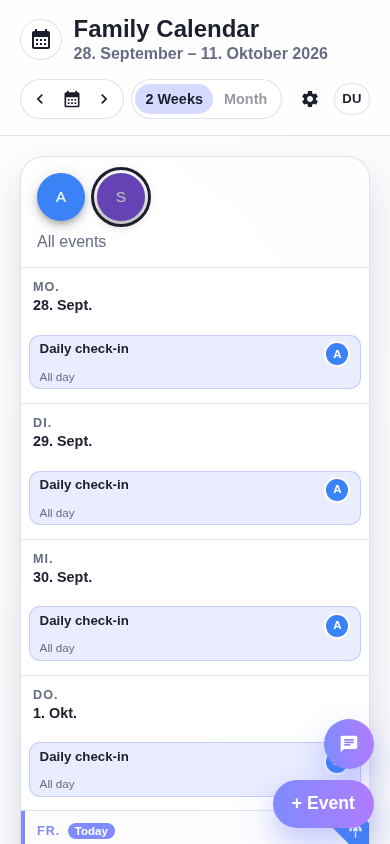
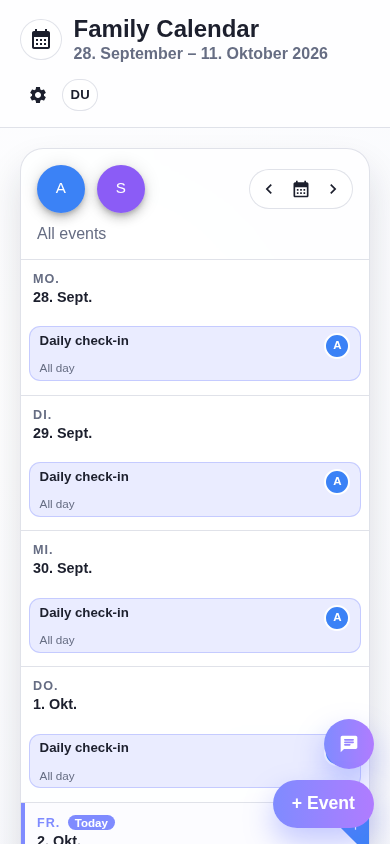
Move mobile date navigation by member filters

diff --git a/frontend/src/pages/DashboardPage.stories.tsx b/frontend/src/pages/DashboardPage.stories.tsx
@@ -65,11 +65,21 @@ export const DayAndEvents: Story = {
     const sam = canvas.getByRole("button", { name: "Filter events for Sam" });
     const period = canvas.getByRole("banner").querySelector("p")?.textContent;
     const events = () => canvas.getAllByRole("button", { name: "Open event Family picnic" });
-    const previousPeriod = canvas.getByTitle("Previous two-week period");
-    const nextPeriod = canvas.getByTitle("Next two-week period");
+    const isMobile = (canvasElement.querySelector(".dashboard-page")?.getBoundingClientRect().width ?? Infinity) <= 760;
+    const previousPeriod = canvasElement.querySelector(
+      `${isMobile ? ".calendar-period-navigation" : ".header-controls .period-navigation"} [title="Previous two-week period"]`,
+    )!;
+    const nextPeriod = canvasElement.querySelector(
+      `${isMobile ? ".calendar-period-navigation" : ".header-controls .period-navigation"} [title="Next two-week period"]`,
+    )!;
 
     await expect(previousPeriod).toBeVisible();
     await expect(nextPeriod).toBeVisible();
+    if (isMobile) {
+      await expect(canvas.queryByRole("group", { name: "View switcher" })).toBeNull();
+      await expect(canvasElement.querySelector(".header-controls .period-navigation")!).not.toBeVisible();
+      await expect(previousPeriod.closest(".calendar-member-filters")).not.toBeNull();
+    }
     await expect(canvas.getByRole("button", { name: "Jump to current period" })).toBeVisible();
     await expect(canvas.getByRole("button", { name: "Open settings" })).toBeVisible();
     await expect(canvas.getByRole("button", { name: "Demo user · Open account menu" })).toBeVisible();
@@ -97,7 +107,9 @@ export const DayAndEvents: Story = {
     await expect(sam).toHaveAttribute("aria-pressed", "false");
     await expect(canvas.getByRole("button", { name: "Open event Music lesson" })).toBeVisible();
     await expect(canvas.getByRole("banner").querySelector("p")?.textContent).toBe(period);
-    await expect(canvas.getByRole("button", { name: "2 Weeks" })).toHaveAttribute("aria-pressed", "true");
+    if (!isMobile) {
+      await expect(canvas.getByRole("button", { name: "2 Weeks" })).toHaveAttribute("aria-pressed", "true");
+    }
   },
 };
 export const DayGroupedEvents: Story = {

diff --git a/frontend/src/App.css b/frontend/src/App.css
@@ -15,6 +15,7 @@ body,
 .dashboard-page {
   min-height: 100vh;
   background: var(--bg-gradient);
+  container: dashboard / inline-size;
 }
 
 .auth-page {
@@ -697,6 +698,10 @@ body,
   display: none;
 }
 
+.calendar-period-navigation {
+  display: none;
+}
+
 @container family-calendar (max-width: 960px) {
   .calendar-member-filters {
     display: flex;
@@ -705,6 +710,18 @@ body,
     gap: 0.75rem;
     padding: 1rem;
     border-bottom: 1px solid var(--border);
+  }
+
+  .calendar-member-filters .calendar-period-navigation {
+    flex-shrink: 0;
+    gap: 0;
+    padding: 0.2rem;
+    margin-left: auto;
+  }
+
+  .calendar-member-filters .calendar-period-navigation .icon-button {
+    width: 2rem;
+    height: 2rem;
   }
 
   .calendar-filter-status {
@@ -1171,6 +1188,10 @@ body,
 }
 
 @media (max-width: 760px) {
+  .calendar-member-filters .calendar-period-navigation {
+    display: inline-flex;
+  }
+
   .auth-page {
     padding: 0.9rem;
   }
@@ -1224,8 +1245,11 @@ body,
   }
 
   .dashboard-page .header-controls {
-    max-width: 100%;
-    justify-self: start;
+    display: none;
+  }
+
+  .dashboard-page .view-switcher {
+    display: none;
   }
 
   .day-cell strong {
@@ -1248,22 +1272,18 @@ body,
 }
 
 @media (max-width: 389px) {
-  .dashboard-page .header-controls {
-    flex-wrap: nowrap;
-    gap: 0.25rem;
+  .calendar-member-filters .calendar-period-navigation {
+    gap: 0;
   }
+}
 
-  .dashboard-page .header-controls .icon-button {
-    width: 1.8rem;
-    height: 1.8rem;
-  }
-
-  .dashboard-page .view-switcher button:disabled {
+@container dashboard (max-width: 760px) {
+  .dashboard-page .header-controls,
+  .dashboard-page .view-switcher {
     display: none;
   }
 
-  .dashboard-page .view-switcher button {
-    padding: 0.3rem 0.4rem;
-    font-size: 0.8rem;
+  .dashboard-page .calendar-member-filters .calendar-period-navigation {
+    display: inline-flex;
   }
 }

diff --git a/frontend/src/pages/DashboardPage.tsx b/frontend/src/pages/DashboardPage.tsx
@@ -536,7 +536,7 @@ export function DashboardPage({
 
         <div className="header-actions">
           <div className="header-controls">
-            <div className="pill-group" role="group" aria-label="Period navigation">
+            <div className="pill-group period-navigation" role="group" aria-label="Period navigation">
               <button
                 type="button"
                 className="icon-button"
@@ -647,6 +647,32 @@ export function DashboardPage({
                 </span>
               </Fab>
             ))}
+            <div className="pill-group period-navigation calendar-period-navigation" role="group" aria-label="Period navigation">
+              <button
+                type="button"
+                className="icon-button"
+                title="Previous two-week period"
+                onClick={() => setPeriodStart((current) => addDays(current, -14))}
+              >
+                <ChevronLeftIcon fontSize="small" />
+              </button>
+              <button
+                type="button"
+                className="icon-button"
+                title="Jump to current period"
+                onClick={() => setPeriodStart(startOfWeekMonday(new Date()))}
+              >
+                <CalendarMonthIcon fontSize="small" />
+              </button>
+              <button
+                type="button"
+                className="icon-button"
+                title="Next two-week period"
+                onClick={() => setPeriodStart((current) => addDays(current, 14))}
+              >
+                <ChevronRightIcon fontSize="small" />
+              </button>
+            </div>
             <span className="calendar-filter-status" role="status">
               {selectedMember ? `Events for ${selectedMember.firstName}` : "All events"}
             </span>

diff --git a/CHANGELOG.md b/CHANGELOG.md
@@ -2,6 +2,7 @@
 
 ## Unreleased
 
+- Moved two-week date navigation alongside mobile calendar member filters and hid the view selector on small screens, while retaining the date range and navigation actions. Updated screenshot: `/home/runner/work/family-butler-v2/family-butler-v2/docs/screenshots/dashboard-mobile-header-compact.png`.
 - Reduced the mobile dashboard header to two compact rows by keeping period, settings, and account controls together, with the existing navigation behavior unchanged. Updated screenshot: `/home/runner/work/family-butler-v2/family-butler-v2/docs/screenshots/dashboard-mobile-header-compact.png`.
 - Removed the thick background rim around calendar member-filter avatars while retaining the 48px touch target, selected outline, and keyboard-focus indicator. Updated screenshot: `/home/runner/work/family-butler-v2/family-butler-v2/docs/screenshots/calendar-mobile-day-grouped.png`.
 - Made the family calendar responsive to its available width: below 960px, member/week/birthday columns become Day + Events; below 480px, events are grouped under day labels. Wide-screen columns and date controls remain unchanged.
